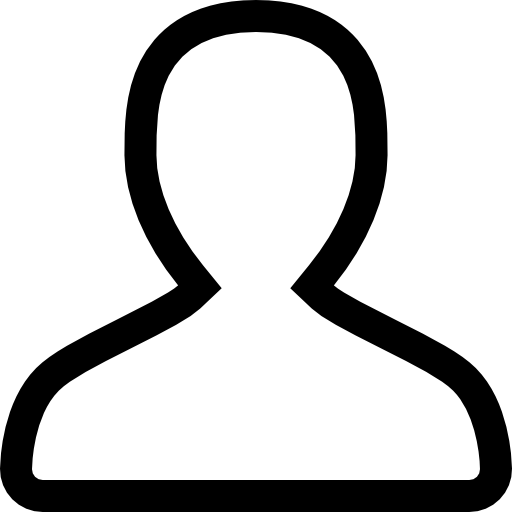
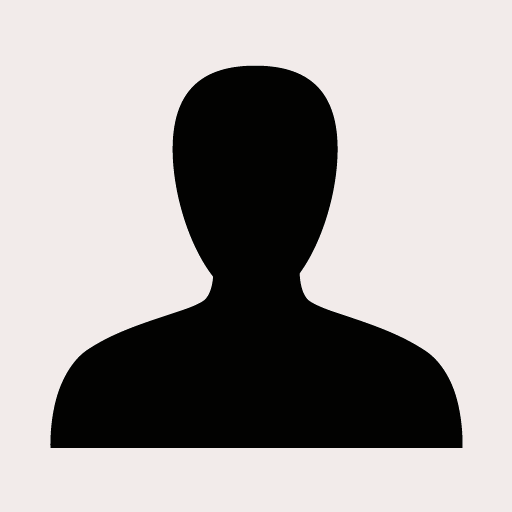
Added Profile Page
Una bozza per lo meno

diff --git a/WebContent/exampleProfile.html b/WebContent/exampleProfile.html
@@ -61,35 +61,72 @@
 	</header>
 	<main role="main">
 	<div
-		class="container d-flex align-items-center justify-content-center min-vh-100 about">
+		class="container d-flex align-items-center justify-content-center min-vh-100 profile">
 		<div class="row">
-			<div class="col-lg-6">
+			<div class="col-lg-4">
 				<div
-					class="inner-about-anna align-items-center justify-content-center">
-					<img style="padding:20px;" class="rounded-circle" src="anna.jpg"
-						alt="Image of Anna Debiasi" width="160" height="160">
-					<h2 style="padding-top: 20px; padding-bottom: 20px">Anna
-						Debiasi</h2>
-					<p>Donec sed odio dui. Etiam porta sem malesuada magna mollis
-						euismod. Nullam id dolor id nibh ultricies vehicula ut id elit.
-						Morbi leo risus, porta ac consectetur ac, vestibulum at eros.
-						Praesent commodo cursus magna.</p>
-					<!-- <img src="i.jpg"
-						alt="Signature of Anna Debiasi" width="220" height="120"> -->
+					class="user-img" style="text-align: center">
+					<img class="rounded-circle" src="user_icon.png"
+						alt="Image of Anna Debiasi" width="220" height="220">
+
 				</div>
 			</div>
 			<!-- /.col-lg-4 -->
-			<div class="col-lg-6">
-				<div
-					class="inner-about-geo align-items-center justify-content-center">
-					<img class="rounded-circle" src="georgiana.jpg"
-						alt="Image of Georgiana Bud" width="160" height="160">
-					<h2 style="padding-top: 20px; padding-bottom: 20px">Georgiana
-						Bud</h2>
-					<p>Duis mollis, est non commodo luctus, nisi erat porttitor
-						ligula, eget lacinia odio sem nec elit. Cras mattis consectetur
-						purus sit amet fermentum. Fusce dapibus, tellus ac cursus commodo,
-						tortor mauris condimentum nibh.</p>
+			<div class="col-lg-8">
+				<div class="user-info">
+					<h5 style="padding-top: 20px; padding-bottom: 20px">Personal
+						information</h5>
+					<hr></hr>
+					<div class="row">
+						<div class="col-lg-6">
+							<h6>Name:</h6>
+						</div>
+						<div class="col-lg-5">
+							<p>Mario Rossi</p>
+						</div>
+					</div>
+					<div class="row">
+						<div class="col-lg-6">
+							<h6>Email:</h6>
+						</div>
+						<div class="col-lg-5">
+							<p>mario.rossi@gmail.com</p>
+						</div>
+					</div>
+					<h5 style="padding-top: 20px; padding-bottom: 20px">Company
+						information</h5>
+					<hr></hr>
+					<div class="row">
+						<div class="col-lg-6">
+							<h6>Company:</h6>
+						</div>
+						<div class="col-lg-5">
+							<p>SwissRe</p>
+						</div>
+					</div>
+					<div class="row">
+						<div class="col-lg-6">
+							<h6>Role:</h6>
+						</div>
+						<div class="col-lg-5">
+							<p>Chief Supervisor</p>
+						</div>
+					</div>
+					<div class="row">
+						<div class="col-lg-6">
+							<h6>Projects:</h6>
+						</div>
+						<div class="col-lg-5" style="padding: -20px;">
+							<ul>
+								<li>Project 1</li>
+								<li>Project 2</li>
+								<li>Project 3</li>
+							</ul>
+						</div>
+					</div>
+					<button style="margin-top: 20px;"
+						class="btn btn-outline-primary mr-1" type="button">edit
+						info</button>
 				</div>
 			</div>
 

diff --git a/WebContent/style.css b/WebContent/style.css
@@ -49,10 +49,37 @@ html, body {
 }
 .inner-about-anna, .inner-about-geo{
 	margin: 20px;
-	pdding=20px;
 	
 }
 .about > img {
     vertical-align: middle;
     border-style: none;
+}
+.profile {
+	height: 100%;	
+	padding-top:50px
+}
+.profile { display: -ms-flex; display: -webkit-flex; display: flex; }
+.profile>div { flex:1; }
+hr {
+	margin-top:-10px;
+}
+
+.user-img > img {
+    vertical-align: middle;
+    border-style: none;
+    padding:20px;
+}
+.user-img, .user-info{
+	margin: 20px;
+	
+}
+ul {
+  list-style-type: none;
+}
+
+ul li:before {
+  content: '\2014';
+  position: absolute;
+  margin-left: -35px;
 }

diff --git a/WebContent/exampleHome.html b/WebContent/exampleHome.html
@@ -43,7 +43,7 @@
 							<div class="dropdown-divider"></div>
 							<a class="dropdown-item" href="exampleProjects.html">All projects</a>
 						</div></li>
-					<li class="nav-item"><a class="nav-link" href="#">My
+					<li class="nav-item"><a class="nav-link" href="exampleProfile.html">My
 							Profile</a></li>
 					<li class="nav-item"><a class="nav-link" href="exampleAboutUs.html">About Us</a></li>
 

diff --git a/WebContent/exampleProjects.html b/WebContent/exampleProjects.html
@@ -43,7 +43,7 @@
 							<div class="dropdown-divider"></div>
 							<a class="dropdown-item" href="exampleProjects.html">All projects</a>
 						</div></li>
-					<li class="nav-item"><a class="nav-link" href="#">My
+					<li class="nav-item"><a class="nav-link" href="exampleProfile.html">My
 							Profile</a></li>
 					<li class="nav-item"><a class="nav-link" href="exampleAboutUs.html">About Us</a></li>
 
